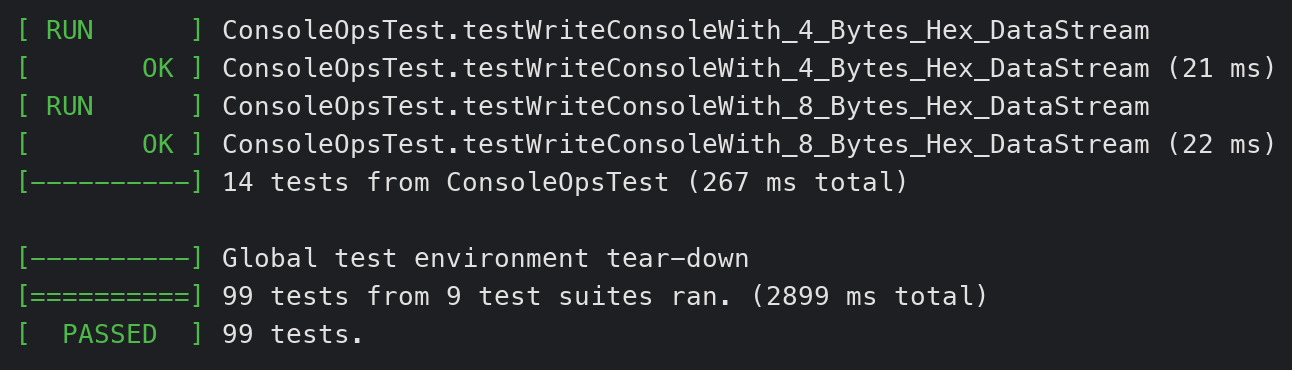
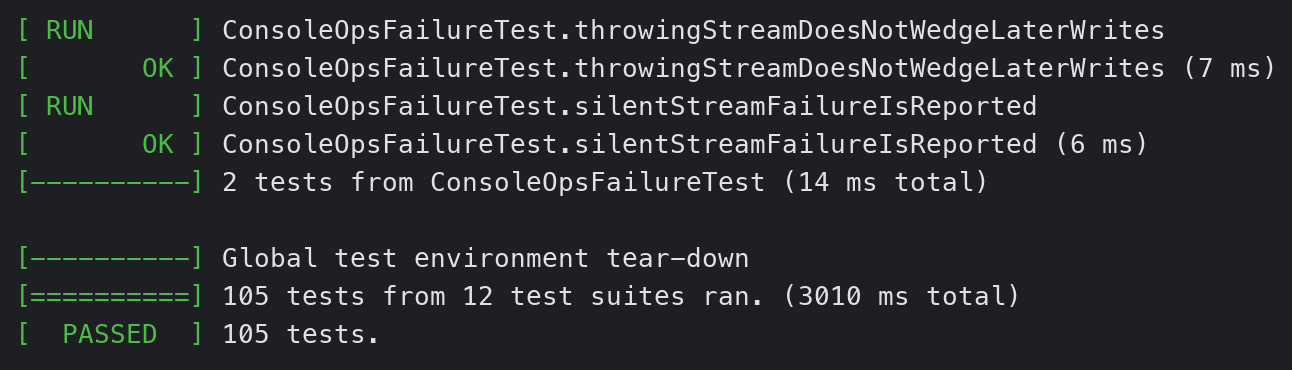
Sync Doxygen comments, class diagram and test image with merged code
- Doxygen: the log_assert and addRaisedException doc blocks were left
  above writeEscapedToStderr and writeRecordNow (inserted later), so
  those got the wrong docs and the originals showed as undocumented.
  Blocks moved back; doxygen warnings back to the original 42 (none on
  new members). \xNN in a comment no longer parsed as a command.
- ClassDiagram: ConsoleOps loses cv/opsRunning (removed in the PR);
  LoggingOps gains writeRecordNow(record): bool.
- TestCases: tail of a real run, 105 tests in 12 suites.

diff --git a/include/LogHelper.hpp b/include/LogHelper.hpp
@@ -502,23 +502,7 @@ namespace logger
     }
 
     /**
-     * @brief Log an assertion failure message.
-     *
-     * This function logs an assertion failure message with the specified condition and format.
-     * It sets the logger properties such as file name, function name, line number, thread ID,
-     * and log type before logging the message. If `exitGracefuly` is true, it will exit the program gracefully.
-     *
-     * @tparam Args Variadic template parameters for additional arguments to be formatted into the log message.
-     * @param [in] fileName The name of the file where the log is being generated.
-     * @param [in] funcName The name of the function where the log is being generated.
-     * @param [in] lineNo The line number in the source code where the log is being generated.
-     * @param [in] cond The condition that failed (assertion).
-     * @param [in] exitGracefuly Whether to exit gracefully or abort on assertion failure.
-     * @param [in] format_str The format string for the log message.
-     * @param [in] args Additional arguments to be formatted into the log message.
-     */
-    /**
-     * @brief Write a fatal/assert record to stderr with control characters escaped (\xNN).
+     * @brief Write a fatal/assert record to stderr with control characters escaped as `\\xNN`.
      * Allocation-free, so it is safe on a failing path right before abort()/exit().
      */
     inline void writeEscapedToStderr(const std::string_view record) noexcept
@@ -560,6 +544,22 @@ namespace logger
         return false;
     }
 
+    /**
+     * @brief Log an assertion failure message.
+     *
+     * This function logs an assertion failure message with the specified condition and format.
+     * It sets the logger properties such as file name, function name, line number, thread ID,
+     * and log type before logging the message. If `exitGracefuly` is true, it will exit the program gracefully.
+     *
+     * @tparam Args Variadic template parameters for additional arguments to be formatted into the log message.
+     * @param [in] fileName The name of the file where the log is being generated.
+     * @param [in] funcName The name of the function where the log is being generated.
+     * @param [in] lineNo The line number in the source code where the log is being generated.
+     * @param [in] cond The condition that failed (assertion).
+     * @param [in] exitGracefuly Whether to exit gracefully or abort on assertion failure.
+     * @param [in] format_str The format string for the log message.
+     * @param [in] args Additional arguments to be formatted into the log message.
+     */
     template<typename ...Args>
     void log_assert
     (

diff --git a/include/LoggingOps.hpp b/include/LoggingOps.hpp
@@ -106,13 +106,6 @@ namespace logger
             inline const std::vector<std::exception_ptr>& getAllExceptions() noexcept       { return m_excpPtrVec; }
 
             /**
-             * @brief Add a raised exception to the exception vector
-             *
-             * @param [in] excpPtr The exception pointer to be added
-             * @note This function is thread safe. It uses mutex to ensure that
-             * only one thread can add an exception at a time.
-             */
-            /**
              * @brief Write one record synchronously and report whether *it* was written.
              *
              * Bypasses the queue and calls writeToOutStreamObject() on the calling thread, so the
@@ -125,6 +118,13 @@ namespace logger
              */
             bool writeRecordNow(const std::string_view record);
 
+            /**
+             * @brief Add a raised exception to the exception vector
+             *
+             * @param [in] excpPtr The exception pointer to be added
+             * @note This function is thread safe. It uses mutex to ensure that
+             * only one thread can add an exception at a time.
+             */
             inline void addRaisedException(const std::exception_ptr& excpPtr)      { std::scoped_lock<std::mutex> lock(m_excpMtx); m_excpPtrVec.emplace_back(excpPtr); }
 
             /**
